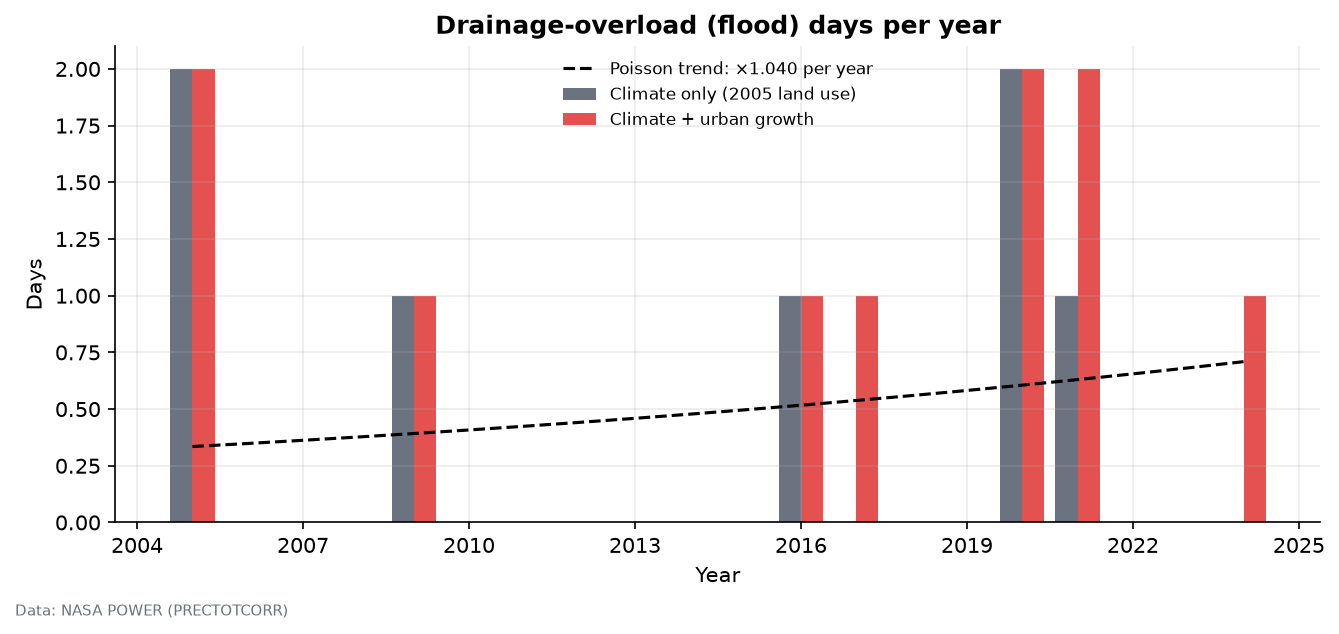
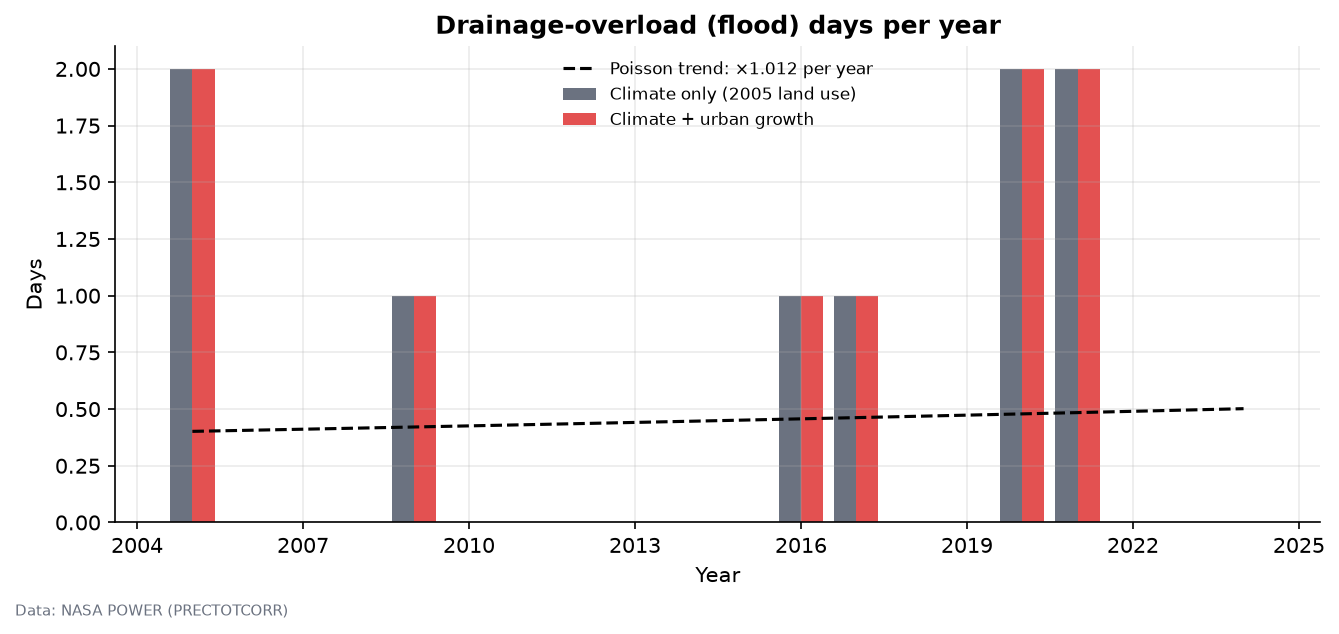
Use measured GHSL built-up fractions in the flood model and update the findings
The central Lagos catchment was already about 55 % built-up in 2005 and has
barely changed since, so the assumed 45-60 % growth overstated the urban effect.
Rainfall now explains almost all of the modelled change in this catchment.
Also: report 'n/a' for attribution shares when the total change is near zero,
and use plain ASCII in console messages so the scripts run on all Windows consoles.

Changed region(s): [[0.1531, 0.4495, 0.9492, 0.8391], [0.7655, 0.0899, 0.8267, 0.4795], [0.5818, 0.0899, 0.6124, 0.1199]]

diff --git a/project2_urban_flood_risk/analysis.py b/project2_urban_flood_risk/analysis.py
@@ -79,8 +79,11 @@ def run(demo=False, cfg=None):
     for col in ["flood_days", "excess_volume_m3", "runoff_mm"]:
         total = dmean(combined, col)
         clim = dmean(climate_only, col)
+        # a share is only meaningful when the total change is not close to zero
+        # (less than 1 % of the variable's mean would give nonsense like 2,000 %)
+        meaningful = abs(total) >= 0.01 * abs(combined[col].mean())
         attr[col] = {"total_change": total, "climate_part": clim, "urban_part": total - clim,
-                     "urban_share_percent": 100 * (total - clim) / total if total else np.nan}
+                     "urban_share_percent": 100 * (total - clim) / total if meaningful else np.nan}
     attr_df = pd.DataFrame(attr).T
     attr_df.round(3).to_csv(out / "tables" / "attribution_climate_vs_urban.csv")
 
@@ -223,7 +226,7 @@ def run(demo=False, cfg=None):
         f"*Produced by `analysis.py`. Rainfall: {src}. Catchment {u['catchment_area_km2']} km², drainage capacity "
         f"{u['drainage_capacity_mm_per_day']} mm/day, CN pervious {u['pervious_curve_number']} / impervious "
         f"{u['impervious_curve_number']}. Impervious fraction {100 * f_imp.iloc[0]:.0f} % → {100 * f_imp.iloc[-1]:.0f} % "
-        "(provisional values, to be replaced with GHSL measurements).*",
+        "(GHSL built-up surface, set in `config.yaml`).*",
         "",
         "## 1. Flood-trend statistics",
         "",
@@ -252,8 +255,9 @@ def run(demo=False, cfg=None):
           "| Quantity | Total change | Due to rainfall change | Due to urban growth | Urban share |",
           "|---|---|---|---|---|"]
     for k, r in attr_df.iterrows():
-        L.append(f"| {k} | {r['total_change']:+.3g} | {r['climate_part']:+.3g} | {r['urban_part']:+.3g} | "
-                 f"{r['urban_share_percent']:.0f} % |")
+        share = ("n/a (total change close to zero)" if pd.isna(r["urban_share_percent"])
+                 else f"{r['urban_share_percent']:.0f} %")
+        L.append(f"| {k} | {r['total_change']:+.3g} | {r['climate_part']:+.3g} | {r['urban_part']:+.3g} | {share} |")
     L += ["", "*Method: run the model twice — once with real land-use growth, once with land use frozen at "
           f"{y0}. The difference between the two runs is the effect of urbanisation.*", "",
           "## 3. Sustainable drainage (SuDS) scenarios", "",
@@ -277,7 +281,7 @@ def run(demo=False, cfg=None):
     for f in sorted(F.glob("*.png")):
         L += [f"![{f.stem}](figures/{f.name})", ""]
     (out / "RESULTS.md").write_text("\n".join(L), encoding="utf-8")
-    print(f"  Done → {out.relative_to(ROOT)}/RESULTS.md")
+    print(f"  Done -> {out.relative_to(ROOT)}/RESULTS.md")
     return {"combined": combined, "climate_only": climate_only, "suds": suds}
 
 

diff --git a/project1_rainfall_trends/analysis.py b/project1_rainfall_trends/analysis.py
@@ -284,7 +284,7 @@ def run(demo=False, cfg=None):
         lines.append(f"![{f.stem}](figures/{f.name})")
         lines.append("")
     (out / "RESULTS.md").write_text("\n".join(lines), encoding="utf-8")
-    print(f"  Done → {out.relative_to(HERE.parent)}/RESULTS.md")
+    print(f"  Done -> {out.relative_to(HERE.parent)}/RESULTS.md")
     return {"indices": idx, "trends": trends, "daily": daily}
 
 

diff --git a/project2_urban_flood_risk/README.md b/project2_urban_flood_risk/README.md
@@ -41,7 +41,7 @@ This work connects to **UN Sustainable Development Goal 11** (sustainable cities
 | Soil / land-cover runoff parameters | SCS Curve Number tables (USDA NRCS TR-55, 1986) | CN = 98 impervious; CN = 74 open land, soil group C |
 | Recorded flood events *(optional)* | News archives, NEMA/LASEMA reports, Dartmouth Flood Observatory, EM-DAT | Enter in [`data/flood_events.csv`](../data/flood_events.csv) |
 
-**Status of the built-up data:** the impervious fractions currently in `config.yaml` (45 % in 2005 rising to 60 % in 2024) are provisional estimates. They will be replaced with values measured from GHSL using the Earth Engine script, and the results rerun.
+**Built-up data:** the impervious fractions in `config.yaml` were measured from GHSL with the Earth Engine script: 54.7 % in 2005, 54.8 % in 2010, 54.9 % in 2015, 55.0 % in 2020 and 55.0 % in 2025 (used for 2024).
 
 ## 4. Methodology
 
@@ -220,7 +220,7 @@ All numbers, tables and figures are in [`results/RESULTS.md`](results/RESULTS.md
 | Figure | What it shows |
 |---|---|
 | `01_scs_runoff_curves` | How more paving turns the same rain into more runoff (conceptual) |
-| `02_impervious_and_runoff_coefficient` | Growth of paved area and the rising share of rain that runs off |
+| `02_impervious_and_runoff_coefficient` | Built-up area over time and the share of rain that runs off |
 | `03_flood_days_per_year` | Flood days with and without urban growth, with Poisson trend |
 | `04_excess_flood_volume` | Floodwater volume the drains could not carry |
 | `05_suds_scenarios` | Flood days and volume reduction for each strategy |
@@ -228,13 +228,15 @@ All numbers, tables and figures are in [`results/RESULTS.md`](results/RESULTS.md
 
 ## 6. Discussion
 
-**Which driver dominates?** The attribution suggests that over these 20 years, land-use change matters more than rainfall change for how much water runs off. Runoff rose by about 59 mm a year between the two decades, and virtually all of that came from the growth in built-up area; with land use held at 2005 levels, runoff hardly changed. For flood days the split is less clear-cut (roughly three quarters urban, one quarter rainfall), and for flood volume rainfall plays the larger part. That fits Project 1, where the heaviest storms appear to have intensified. Rainfall decides when a flood happens, and urban growth makes every storm produce more water.
+**Which driver dominates?** In this catchment, rainfall. The GHSL measurements show that central Lagos was already about 55 % built-up in 2005 and has barely changed since (54.7 % to 55.0 %). With so little new building, the model attributes almost all of the change between the two decades to rainfall: the slight rise in flood days, and 99 % of the extra flood volume. The runoff coefficient shows no significant trend (+3.8 %, p = 0.77). That fits Project 1, where the heaviest storms appear to have intensified while annual totals did not.
+
+This does not mean urbanisation is unimportant for Lagos flooding. It means the urban growth of the last twenty years happened somewhere else: on the city's edges in Lekki, Ajah, Ikorodu and around the lagoon, often on wetland. A central catchment is the wrong place to look for its effect, which is the question taken up by the [wetland and reclamation study](https://github.com/GeoAlbertX/lagos-wetland-reclamation). An earlier version of this analysis used assumed built-up values (45 % rising to 60 %) and found a strong urban effect. Replacing them with satellite measurements removed it, which shows how much the conclusions depend on measured rather than assumed land cover.
 
 **Green versus grey.** Upgrading the drains alone reduced flood volume by about a third, similar to rain gardens with permeable paving. The two approaches work differently, though. Bigger drains move the same water downstream faster, which can shift the problem to the lagoon and to low-lying neighbourhoods. Green measures reduce the volume at source and bring other benefits, such as cooling, habitat and water reuse. Only the scenarios that included green infrastructure lowered the runoff coefficient. The integrated scenario performed best by a wide margin, which suggests the two approaches complement each other rather than compete.
 
 **Planning implications.** For Lagos, this points to a mix of policies: limits on impervious cover in new developments, required on-site retention (rain tanks, soakaways, permeable paving), protection of the remaining wetlands and floodplains, enforcement of drainage setbacks, and regular clearing of existing drains.
 
-**Uncertainty.** Drainage capacity is the parameter the results depend on most. A 20 % change moves the average from 0.35 to 1.05 flood days a year. Because the model produces only about ten flood days in 20 years, the exact flood-day percentages should be read with caution. The runoff results do not depend on drainage capacity at all, so they are the more robust part of the analysis.
+**Uncertainty.** Drainage capacity is the parameter the results depend on most. A 20 % change moves the average from 0.30 to 0.90 flood days a year. Because the model produces only about nine flood days in 20 years, the exact flood-day percentages should be read with caution. GHSL built-up surface also leaves out many roads and paved yards, so the true impervious share is probably higher than 55 %; raising it by 10 % increases flood days from 0.45 to 0.55 a year.
 
 ## 7. Limitations
 
@@ -247,17 +249,18 @@ All numbers, tables and figures are in [`results/RESULTS.md`](results/RESULTS.md
 
 ## 8. Conclusions and recommendations
 
-These conclusions use the provisional built-up fractions (45 % in 2005 rising to 60 % in 2024). The figures will be updated once the GHSL measurements from [`tools/gee_impervious_ghsl.js`](../tools/gee_impervious_ghsl.js) are in place.
+These conclusions use built-up fractions measured from GHSL for a 25 km² catchment around central Lagos (54.7 % in 2005, 55.0 % in 2025).
 
-1. **Urban growth makes more of the rain run off.** The runoff coefficient (share of rain that becomes runoff) rose significantly, by 26 % over the period (Mann-Kendall p = 0.004), when the city grows. With land use frozen at 2005 it shows no trend (+2 %, p = 0.92). The change in *how much water runs off* is therefore driven by the city, not the rain: urban growth accounts for essentially all of the increase in annual runoff (+60 mm of +59 mm).
-2. **Flood days are rare in this model and their trend is not significant.** With 40 mm/day drainage capacity, the catchment overloads on average 0.5 days per year (10 days in 20 years). Poisson regression gives +4.0 % per year (IRR = 1.040, 95 % CI 0.93–1.16, p = 0.48), so this rise is not statistically significant. In the attribution, urban growth explains about 75 % of the extra flood days and 36 % of the extra flood volume between the two decades; because so few flood days occur, these shares are indicative only.
-3. **Integrated green + grey drainage works best.** Applied to today's city over 20 years of real rainfall, combining green infrastructure (25 % of paved area disconnected, 10 mm/day storage) with a 25 % drain upgrade cuts flood volume by **61 %** and flood days by 73 %. A drain upgrade alone gives 34 %, rain gardens with permeable paving 31 %, and green roofs alone 11 %. Only the strategies that include green infrastructure also lower the runoff coefficient, which reduces the water sent downstream to the lagoon.
-4. **Drainage capacity is the most important unknown.** Changing it by ±20 % moves average flood days from 0.35 to 1.05 per year, a larger effect than any other parameter. Measuring real drain capacity, including the effect of solid-waste blockage, is the highest priority for improving the model.
-5. **Planning recommendations:**
-   * Combine green and grey measures instead of relying on bigger drains alone: require on-site retention (rain tanks, soakaways, permeable paving) in new developments, and upgrade key drains.
-   * Set maximum impervious-cover limits for new developments and protect the remaining wetlands and floodplains, since land-use change drives the rise in runoff.
+1. **Central Lagos was already built up by 2005, so urban growth explains little of the recent change there.** With land use almost constant, the runoff coefficient shows no significant trend (+3.8 %, p = 0.77), and rainfall accounts for 99 % of the increase in flood volume between the two decades.
+2. **Flood days are rare in this model and their trend is not significant.** With 40 mm/day drainage capacity, the catchment overloads on average 0.45 days per year (about nine days in 20 years). Poisson regression gives +1.2 % per year (IRR = 1.012, 95 % CI 0.90–1.13, p = 0.84).
+3. **Integrated green + grey drainage works best.** Applied to the current city over 20 years of real rainfall, combining green infrastructure (25 % of paved area disconnected, 10 mm/day storage) with a 25 % drain upgrade cuts flood volume by **59 %** and flood days by 78 %. A drain upgrade alone gives 34 %, rain gardens with permeable paving 30 %, and green roofs alone 10 %. Only the strategies that include green infrastructure also lower the runoff coefficient, which reduces the water sent downstream to the lagoon.
+4. **Drainage capacity is the most important unknown.** Changing it by ±20 % moves average flood days from 0.30 to 0.90 per year, a larger effect than any other parameter. Measuring real drain capacity, including the effect of solid-waste blockage, is the highest priority for improving the model.
+5. **The effect of urban growth has to be studied where the growth happened.** Running the same model for a fast-growing peri-urban catchment (for example Lekki–Ajah or Ikorodu) is the natural next step.
+6. **Planning recommendations:**
+   * Combine green and grey measures instead of relying on bigger drains alone: require on-site retention (rain tanks, soakaways, permeable paving) and upgrade key drains.
    * Keep existing drains clear: lost capacity from blockage has the biggest effect on flooding in this model.
-   * Measure the real impervious fraction (GHSL) and drain capacities, and record actual flood events in `data/flood_events.csv` so the model can be validated.
+   * Control impervious cover and protect the remaining wetlands and floodplains on the growing edges of the city, where land-use change is still happening.
+   * Measure drain capacities and record actual flood events in `data/flood_events.csv` so the model can be validated.
 
 ## 9. How to reproduce
 

diff --git a/project2_urban_flood_risk/results/RESULTS.md b/project2_urban_flood_risk/results/RESULTS.md
@@ -1,22 +1,22 @@
 # Project 2 Results — Lagos Metropolitan Area, Nigeria, 2005–2024
 
-*Produced by `analysis.py`. Rainfall: NASA POWER (PRECTOTCORR). Catchment 25.0 km², drainage capacity 40 mm/day, CN pervious 74 / impervious 98. Impervious fraction 45 % → 60 % (provisional values, to be replaced with GHSL measurements).*
+*Produced by `analysis.py`. Rainfall: NASA POWER (PRECTOTCORR). Catchment 25.0 km², drainage capacity 40 mm/day, CN pervious 74 / impervious 98. Impervious fraction 55 % → 55 % (GHSL built-up surface, set in `config.yaml`).*
 
 ## 1. Flood-trend statistics
 
 | Variable | Scenario | Mean | Sen's slope /yr | % change over period | MK p | Result |
 |---|---|---|---|---|---|---|
-| Flood days/yr | Climate + urban | 0.5 | +0 | +0.0 % | 0.439 | no significant trend |
-| Flood days/yr | Climate only | 0.35 | +0 | +0.0 % | 0.863 | no significant trend |
-| Excess volume (m³/yr) | Climate + urban | 2.68e+05 | +0 | +0.0 % | 0.618 | no significant trend |
-| Excess volume (m³/yr) | Climate only | 2.28e+05 | +0 | +0.0 % | 0.864 | no significant trend |
-| Runoff coefficient | Climate + urban | 0.298 | +0.00414 | +26.4 % | 0.004 | significant increase |
-| Runoff coefficient | Climate only | 0.261 | +0.000292 | +2.1 % | 0.922 | no significant trend |
-| Max daily runoff (mm) | Climate + urban | 41.1 | +0.217 | +10.0 % | 0.770 | no significant trend |
-| Max daily runoff (mm) | Climate only | 38.7 | -0.0248 | -1.2 % | 0.922 | no significant trend |
+| Flood days/yr | Climate + urban | 0.45 | +0 | +0.0 % | 0.871 | no significant trend |
+| Flood days/yr | Climate only | 0.45 | +0 | +0.0 % | 0.871 | no significant trend |
+| Excess volume (m³/yr) | Climate + urban | 2.72e+05 | +0 | +0.0 % | 1.000 | no significant trend |
+| Excess volume (m³/yr) | Climate only | 2.71e+05 | +0 | +0.0 % | 1.000 | no significant trend |
+| Runoff coefficient | Climate + urban | 0.308 | +0.000613 | +3.8 % | 0.770 | no significant trend |
+| Runoff coefficient | Climate only | 0.308 | +0.000573 | +3.5 % | 0.770 | no significant trend |
+| Max daily runoff (mm) | Climate + urban | 41.7 | -0.00783 | -0.4 % | 1.000 | no significant trend |
+| Max daily runoff (mm) | Climate only | 41.6 | -0.0133 | -0.6 % | 0.974 | no significant trend |
 
-**Poisson regression of flood days (climate + urban):** IRR = 1.040 (95 % CI 0.933–1.160), p = 0.478, dispersion = 1.26. This means the expected number of flood days changes by **+4.0 % per year**, i.e. ×2.12 over 19 years.
-With land use frozen at 2005, the same model gives IRR = 0.977 (p = 0.719).
+**Poisson regression of flood days (climate + urban):** IRR = 1.012 (95 % CI 0.903–1.133), p = 0.840, dispersion = 1.35. This means the expected number of flood days changes by **+1.2 % per year**, i.e. ×1.25 over 19 years.
+With land use frozen at 2005, the same model gives IRR = 1.012 (p = 0.840).
 
 ## 2. Attribution — how much is climate, how much is urban growth?
 
@@ -24,9 +24,9 @@ Change in the average of 2015–2024 compared with 2005–2014:
 
 | Quantity | Total change | Due to rainfall change | Due to urban growth | Urban share |
 |---|---|---|---|---|
-| flood_days | +0.4 | +0.1 | +0.3 | 75 % |
-| excess_volume_m3 | +2.06e+05 | +1.32e+05 | +7.36e+04 | 36 % |
-| runoff_mm | +59.1 | -1 | +60.1 | 102 % |
+| flood_days | +0.3 | +0.3 | +0 | 0 % |
+| excess_volume_m3 | +1.71e+05 | +1.69e+05 | +2.07e+03 | 1 % |
+| runoff_mm | +0.0616 | -1.18 | +1.24 | n/a (total change close to zero) |
 
 *Method: run the model twice — once with real land-use growth, once with land use frozen at 2005. The difference between the two runs is the effect of urbanisation.*
 
@@ -36,21 +36,21 @@ Each scenario applies 2024 land use to all 20 years of observed rainfall.
 
 | Scenario | Flood days/yr | Excess m³/yr | Runoff coeff. | Flood-day reduction | Volume reduction |
 |---|---|---|---|---|---|
-| Business as usual | 0.55 | 301,039 | 0.333 | 0 % | 0 % |
-| Green roofs | 0.45 | 267,341 | 0.304 | 18 % | 11 % |
-| Rain gardens + permeable paving | 0.35 | 206,822 | 0.290 | 36 % | 31 % |
-| Drain upgrade (grey only) | 0.30 | 198,397 | 0.333 | 45 % | 34 % |
-| Integrated green + grey | 0.15 | 117,534 | 0.261 | 73 % | 61 % |
+| Business as usual | 0.45 | 272,742 | 0.309 | 0 % | 0 % |
+| Green roofs | 0.35 | 244,786 | 0.282 | 22 % | 10 % |
+| Rain gardens + permeable paving | 0.35 | 190,557 | 0.269 | 22 % | 30 % |
+| Drain upgrade (grey only) | 0.30 | 180,835 | 0.309 | 33 % | 34 % |
+| Integrated green + grey | 0.10 | 112,643 | 0.243 | 78 % | 59 % |
 
-**Best performing strategy:** Integrated green + grey (61 % less floodwater).
+**Best performing strategy:** Integrated green + grey (59 % less floodwater).
 
 ## 4. Sensitivity analysis
 
 | Parameter varied | Flood days/yr (low) | Flood days/yr (high) |
 |---|---|---|
-| Drainage capacity ±20 % | 1.05 | 0.35 |
-| Impervious fraction ±10 % | 0.45 | 0.60 |
-| Initial abstraction ratio 0.05 vs 0.30 | 0.60 | 0.45 |
+| Drainage capacity ±20 % | 0.90 | 0.30 |
+| Impervious fraction ±10 % | 0.35 | 0.55 |
+| Initial abstraction ratio 0.05 vs 0.30 | 0.55 | 0.45 |
 | Pervious CN ±5 % | 0.45 | 0.55 |
 
 The result is most sensitive to **drainage capacity** — this is the parameter most worth measuring carefully.

diff --git a/README.md b/README.md
@@ -13,10 +13,8 @@ The first study describes the hazard (the rain). The second turns that rain into
 ## Main findings
 
 - **Rainfall.** Annual rainfall averaged about 1,590 mm with no statistically significant trend in any of the 14 indices. The extremes are moving upwards, though: the wettest day of the year was about 25 % higher in 2015–2024 than in 2005–2014. Under the Gumbel model, the storm that was a 1-in-10-year event in the first decade behaves more like a 1-in-4-year event in the second. With only 20 years of data these changes can't yet be confirmed statistically.
-- **Flood risk.** As the built-up area grows, the share of rain that turns into runoff rises significantly (+26 %, p = 0.004). With land use held at 2005 levels, it barely changes. Of the strategies tested, combining green infrastructure with drain upgrades cut modelled flood volume the most (about 60 %).
+- **Flood risk.** Satellite measurements (GHSL) show that central Lagos was already about 55 % built-up in 2005 and has barely changed since, so in this catchment rainfall, not new building, explains almost all of the recent change in modelled flooding. Of the strategies tested, combining green infrastructure with drain upgrades cut modelled flood volume the most (59 %). The city's growth since 2005 has happened on its edges, often on wetland, which is the focus of study 3.
 - Full numbers, tables and figures are in each study's `results/RESULTS.md`.
-
-Note: the built-up fractions used in study 2 are still provisional estimates. They will be replaced with values measured from GHSL (see [`tools/gee_impervious_ghsl.js`](tools/gee_impervious_ghsl.js)).
 
 ## Data
 

diff --git a/project3_wetland_reclamation/README.md b/project3_wetland_reclamation/README.md
@@ -20,7 +20,7 @@ The [literature review](LITERATURE_REVIEW.md) found three problems with the exis
 2. **Most are snapshots.** Published work compares two or three dates with different class definitions, and several studies report no accuracy assessment.
 3. **The flood link is assumed, not measured.** No study converts lost wetland area into lost flood-storage volume, and the feedback loop in which flooding drives more land filling is known only from residents' accounts.
 
-This project builds on [Project 2](../project2_urban_flood_risk/README.md), which showed that urban growth significantly raised the share of rain that becomes runoff in Lagos. Project 3 asks where that growth came from, and what it removed.
+This project builds on [Project 2](../project2_urban_flood_risk/README.md). Satellite measurements there showed that central Lagos was already built up by 2005, so the city's recent growth must have happened on its edges, often on wetland and lagoon fringe. Project 3 maps where that growth went, and what it removed.
 
 ## Research questions
 
